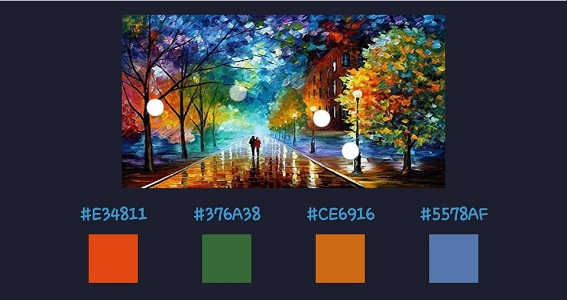
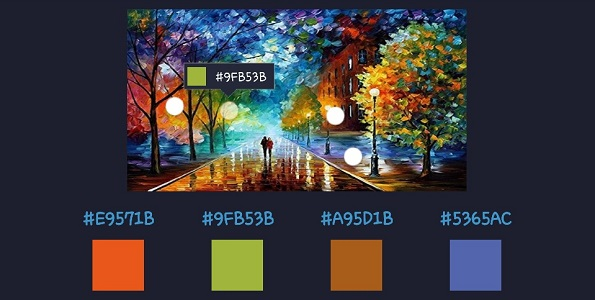
color flag

diff --git a/app/src/main/java/com/skydoves/multicolorpickerdemo/ExampleColorMixing.kt b/app/src/main/java/com/skydoves/multicolorpickerdemo/ExampleColorMixing.kt
@@ -8,6 +8,7 @@ import android.os.Bundle
 import android.support.v4.content.ContextCompat
 import android.support.v7.app.AppCompatActivity
 import com.skydoves.multicolorpicker.ColorEnvelope
+import com.skydoves.multicolorpicker.MultiColorPickerView
 import com.skydoves.multicolorpicker.listeners.ColorListener
 import kotlinx.android.synthetic.main.activity_example_color_mixing.*
 import java.io.FileNotFoundException
@@ -28,6 +29,9 @@ class ExampleColorMixing : AppCompatActivity() {
 
         multiColorPickerView.addSelector(ContextCompat.getDrawable(this, R.drawable.wheel), selector0_colorListener)
         multiColorPickerView.addSelector(ContextCompat.getDrawable(this, R.drawable.wheel), selector1_colorListener)
+        multiColorPickerView.setFlagView(CustomFlag(this, R.layout.layout_flag))
+        multiColorPickerView.setFlagMode(MultiColorPickerView.FlagMode.LAST)
+        multiColorPickerView.setFlagFlipable(false)
         palette.setOnClickListener {
             if(flag) {
                 flag = false

diff --git a/app/src/main/java/com/skydoves/multicolorpickerdemo/ExampleMultiColorPickerView.kt b/app/src/main/java/com/skydoves/multicolorpickerdemo/ExampleMultiColorPickerView.kt
@@ -4,6 +4,7 @@ import android.os.Bundle
 import android.support.v4.content.ContextCompat
 import android.support.v7.app.AppCompatActivity
 import com.skydoves.multicolorpicker.ColorEnvelope
+import com.skydoves.multicolorpicker.MultiColorPickerView
 import com.skydoves.multicolorpicker.listeners.ColorListener
 import kotlinx.android.synthetic.main.activity_multi_color_picker_view_example.*
 
@@ -23,6 +24,7 @@ class ExampleMultiColorPickerView : AppCompatActivity() {
         multiColorPickerView.addSelector(ContextCompat.getDrawable(this, R.drawable.wheel), selector1_colorListener)
         multiColorPickerView.addSelector(ContextCompat.getDrawable(this, R.drawable.wheel), selector2_colorListener)
         multiColorPickerView.addSelector(ContextCompat.getDrawable(this, R.drawable.wheel), selector3_colorListener)
+        multiColorPickerView.setFlagView(CustomFlag(this, R.layout.layout_flag))
     }
 
     private val selector0_colorListener = object : ColorListener {

diff --git a/multicolorpicker/src/main/java/com/skydoves/multicolorpicker/MultiColorPickerView.java b/multicolorpicker/src/main/java/com/skydoves/multicolorpicker/MultiColorPickerView.java
@@ -53,6 +53,12 @@ public class MultiColorPickerView extends FrameLayout {
 
     private float alpha = 0.5f;
 
+    private FlagView flagView;
+
+    public enum FlagMode {ALWAYS, LAST, NONE}
+    private FlagMode flagMode = FlagMode.ALWAYS;
+    private boolean flipable = true;
+
     public MultiColorPickerView(Context context) {
         super(context);
     }
@@ -129,10 +135,14 @@ public class MultiColorPickerView extends FrameLayout {
                 if (mainSelector != null) {
                     switch (event.getAction()) {
                         case MotionEvent.ACTION_DOWN:
+                            if(flagView != null && flagMode == FlagMode.LAST) flagView.gone();
                             mainSelector.getSelector().setPressed(true);
                             return onTouchReceived(event);
                         case MotionEvent.ACTION_MOVE:
                             mainSelector.getSelector().setPressed(true);
+                            return onTouchReceived(event);
+                        case MotionEvent.ACTION_UP :
+                            if(flagView != null && flagMode == FlagMode.LAST) flagView.visible();
                             return onTouchReceived(event);
                         default:
                             mainSelector.getSelector().setPressed(false);
@@ -149,10 +159,27 @@ public class MultiColorPickerView extends FrameLayout {
         mainSelector.setColor(getColorFromBitmap(snapPoint.x, snapPoint.y));
 
         if(getColor() != Color.TRANSPARENT) {
-            mainSelector.getSelector().setX(snapPoint.x - (mainSelector.getSelector().getMeasuredWidth() / 2));
-            mainSelector.getSelector().setY(snapPoint.y - (mainSelector.getSelector().getMeasuredHeight() / 2));
+            Point centerPoint = getCenterPoint(snapPoint.x, snapPoint.y);
+            mainSelector.getSelector().setX(centerPoint.x);
+            mainSelector.getSelector().setY(centerPoint.y);
             mainSelector.setPoint(snapPoint.x, snapPoint.y);
             fireColorListener(getColor());
+
+            if (flagView != null && (flagMode == FlagMode.ALWAYS || flagMode == FlagMode.LAST)) {
+                if(centerPoint.y - flagView.getHeight() > 0) {
+                    flagView.setRotation(0);
+                    if (flagView.getVisibility() == View.GONE) flagView.visible();
+                    flagView.setX(centerPoint.x - flagView.getWidth() / 2 + mainSelector.getSelector().getWidth() / 2);
+                    flagView.setY(centerPoint.y - flagView.getHeight());
+                    flagView.onRefresh(getColorEnvelope());
+                } else if(flipable) {
+                    flagView.setRotation(180);
+                    if (flagView.getVisibility() == View.GONE) flagView.visible();
+                    flagView.setX(centerPoint.x - flagView.getWidth() / 2 + mainSelector.getSelector().getWidth() / 2);
+                    flagView.setY(centerPoint.y + flagView.getHeight() - mainSelector.getSelector().getHeight() / 2);
+                    flagView.onRefresh(getColorEnvelope());
+                }
+            }
             return true;
         } else
             return false;
@@ -184,8 +211,12 @@ public class MultiColorPickerView extends FrameLayout {
 
     private void fireColorListener(int color) {
         if (mainSelector.getColorListener() != null) {
-            mainSelector.getColorListener().onColorSelected(new ColorEnvelope(color, getColorHtml(), getColorRGB()));
+            mainSelector.getColorListener().onColorSelected(getColorEnvelope());
         }
+    }
+
+    private Point getCenterPoint(int x, int y) {
+       return new Point(x - (mainSelector.getSelector().getMeasuredWidth() / 2), y - (mainSelector.getSelector().getMeasuredHeight() / 2));
     }
 
     private int getColor() {
@@ -324,6 +355,12 @@ public class MultiColorPickerView extends FrameLayout {
             addView(selectorList.get(i).getSelector());
             selectorList.get(i).onMoveCenter();
         }
+
+        addView(flagView);
+    }
+
+    public ColorEnvelope getColorEnvelope() {
+        return new ColorEnvelope(getColor(), getColorHtml(), getColorRGB());
     }
 
     public int getMixedColor(float ratio) {
@@ -331,6 +368,20 @@ public class MultiColorPickerView extends FrameLayout {
         if(selectorList.size() == 0) return 0;
         if(selectorList.size() == 1) return selectorList.get(0).getColor();
         return mixColor(selectorList.size(), selectorList.get(0).getColor(), ratio);
+    }
+
+    public void setFlagView(FlagView flagView) {
+        flagView.gone();
+        addView(flagView);
+        this.flagView = flagView;
+    }
+
+    public void setFlagFlipable(boolean flipable) {
+        this.flipable = flipable;
+    }
+
+    public void setFlagMode(FlagMode flagMode) {
+        this.flagMode = flagMode;
     }
 
     private int mixColor(int index, int mixedColor, float ratio) {

diff --git a/multicolorpicker/src/main/java/com/skydoves/multicolorpicker/FlagView.java b/multicolorpicker/src/main/java/com/skydoves/multicolorpicker/FlagView.java
@@ -1,0 +1,47 @@
+package com.skydoves.multicolorpicker;
+
+/*
+ * Copyright (C) 2017 skydoves
+ *
+ * Licensed under the Apache License, Version 2.0 (the "License");
+ * you may not use this file except in compliance with the License.
+ * You may obtain a copy of the License at
+ *
+ * http://www.apache.org/licenses/LICENSE-2.0
+ *
+ * Unless required by applicable law or agreed to in writing, software
+ * distributed under the License is distributed on an "AS IS" BASIS,
+ * WITHOUT WARRANTIES OR CONDITIONS OF ANY KIND, either express or implied.
+ * See the License for the specific language governing permissions and
+ * limitations under the License.
+ */
+
+import android.content.Context;
+import android.view.LayoutInflater;
+import android.view.View;
+import android.widget.RelativeLayout;
+
+public abstract class FlagView extends RelativeLayout {
+
+    public FlagView(Context context, int layout) {
+        super(context);
+        initializeLayout(layout);
+    }
+
+    private void initializeLayout(int layout) {
+        View inflated = LayoutInflater.from(getContext()).inflate(layout, this);
+        inflated.setLayoutParams(new LayoutParams(RelativeLayout.LayoutParams.WRAP_CONTENT, RelativeLayout.LayoutParams.WRAP_CONTENT));
+        inflated.measure(MeasureSpec.makeMeasureSpec(0, MeasureSpec.UNSPECIFIED), MeasureSpec.makeMeasureSpec(0, MeasureSpec.UNSPECIFIED));
+        inflated.layout(0, 0, inflated.getMeasuredWidth(), inflated.getMeasuredHeight());
+    }
+
+    protected void visible() {
+        setVisibility(View.VISIBLE);
+    }
+
+    protected void gone() {
+        setVisibility(View.GONE);
+    }
+
+    public abstract void onRefresh(ColorEnvelope envelope);
+}

diff --git a/app/src/main/java/com/skydoves/multicolorpickerdemo/CustomFlag.java b/app/src/main/java/com/skydoves/multicolorpickerdemo/CustomFlag.java
@@ -1,0 +1,31 @@
+package com.skydoves.multicolorpickerdemo;
+
+import android.content.Context;
+import android.view.View;
+import android.widget.TextView;
+
+import com.skydoves.multicolorpicker.ColorEnvelope;
+import com.skydoves.multicolorpicker.FlagView;
+
+/**
+ * Developed by skydoves on 2017-10-24.
+ * Copyright (c) 2017 skydoves rights reserved.
+ */
+
+public class CustomFlag extends FlagView {
+
+    private TextView textView;
+    private View view;
+
+    public CustomFlag(Context context, int layout) {
+        super(context, layout);
+        textView = findViewById(R.id.flag_color_code);
+        view = findViewById(R.id.flag_color_layout);
+    }
+
+    @Override
+    public void onRefresh(ColorEnvelope envelope) {
+        textView.setText("#" + envelope.getHtmlCode());
+        view.setBackgroundColor(envelope.getColor());
+    }
+}
